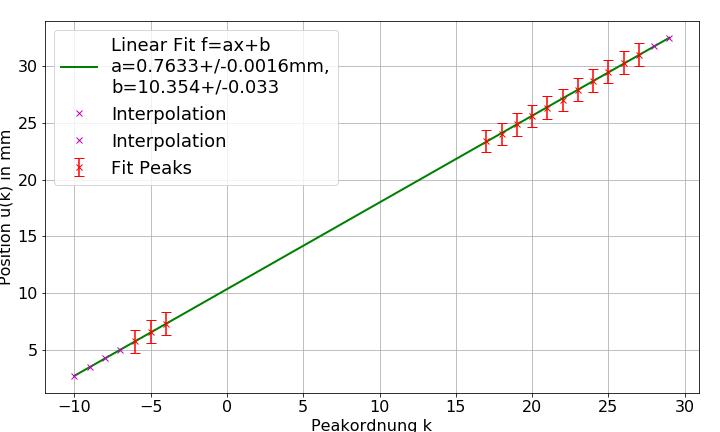
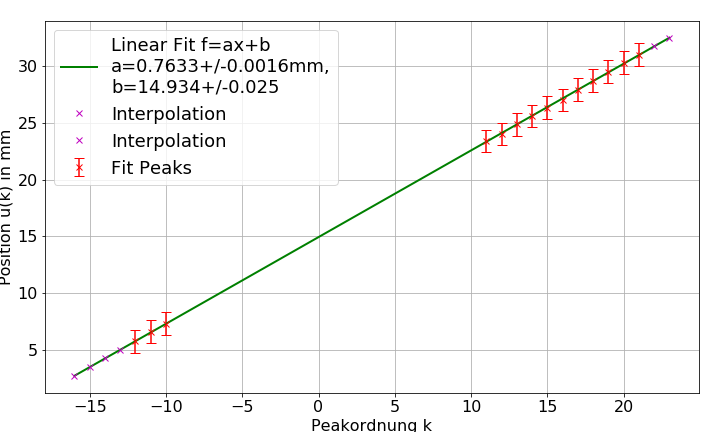
OFT Tabelle

diff --git a/OFT/scripts/gen.py b/OFT/scripts/gen.py
@@ -203,13 +203,13 @@ for name in names:
         xs = [4.5,10,15,20,26,32,38,44,50,56,62.5,68,74,79,85,91,97.5,102]
         before = 0
         after = 0
-        center = 6
+        center = 8
     if nnname=="2_gitter_g4":
         git.append(4)
         xs = [3,9,15,20,25.5,30.5,37,42,48,54.5,60,66,71,77.5,83,90,94.5,100]
         before = 0
         after = 0
-        center = 6
+        center = 9
     if nnname=="2_gitter_g5":
         git.append(5)
         xs = [2.5,9,16,23,30.5,37.5,45,52,60,67.5,75,82.5,90,98,105]
@@ -277,7 +277,7 @@ out_si_tab("OFT/res/tb_2_beug", np.transpose([git,resa,d*l/(uresa/1000)*1000]))
 
 # %% fit pyplot
 names = glob.glob("OFT/data/3/*.txt")
-resa = []
+resa2 = []
 git = []
 for name in names:
     data = np.loadtxt(name, skiprows = 4, usecols=(0,1), delimiter = ";")
@@ -298,31 +298,31 @@ for name in names:
         xs = [6.36,6.8,7.35,7.99,8.3,8.7,9.25,9.67,10.24,10.77,11.25,12,-1,-1,-1,-1,-1,-1,-1,-1,-1,-1,-1,-1,18.7,19.3, 19.79,20.4]
         before = 2
         after = 4
-        center = 4
+        center = 18
     if nnname=="3_trafo_g2":
         git.append(2)
         #xs = [5.75,7,8.75,10.75,12.25]#,14.75,17,19,20,22,23.5,25]
         xs = [5.75,6.6,7.3,-1,-1,-1,-1,-1,-1,-1,-1,-1,-1,-1,-1,-1,-1,-1,-1,-1,-1,-1,-1,23.4,24,24.85,25.6,26.33,27,27.9,28.7,29.5,30.3,31.0]
         before = 4
         after = 2
-        center = 6
+        center = 12
     if nnname=="3_trafo_g3":
         git.append(3)
         xs = [9.5,10.5,11.5,12.5,13.75,14.75,16,17,-1,-1,-1,-1,-1,-1,-1,26,27,28.2,29.3]
         before = 3
         after = 3
-        center = 6
+        center = 11
     if nnname=="3_trafo_g4":
         git.append(4)
         xs = [7.75,8.8,10,10.80,12,13.25,-1,-1,-1,-1,-1,-1,-1,-1,-1,-1,-1,-1,27.25,28.45,29.35]
         before = 4
         after = 4
-        center = 6
+        center = 11
     if nnname=="3_trafo_g5":
         git.append(5)
         xs = [2.5,4,5.25,6.5,8,9.5,10.75,12.25,13.75,-1,-1,-1,-1,-1,-1,-1,-1,26.25,27.75,29,30.5,31.75,33.25]
         after =4
-        center = 7
+        center = 12
     for x in xs:
         if x!=-1:
             fig.gca().axvline(x=x,ymin=0,ymax=1, color='r')
@@ -343,7 +343,7 @@ for name in names:
     xfit = np.linspace(xd[0]-before,xd[-1]+after,4000)
     yfit = gerade(xfit, *unv(fit))
 
-    resa.append(fit[0])
+    resa2.append(fit[0])
     bx =[]
     by =[]
     for i in range(before):
@@ -399,7 +399,7 @@ for name in names:
     plt.show()
 
 l = 632.8e-9
-d = 0.5
-print(resa)
-uresa = unp.uarray(unv(resa),usd(resa))
-out_si_tab("OFT/res/tb_3_beug", np.transpose([git,resa,d*l/(uresa/1000)*1000]))
+d2 = 0.5
+print(resa2)
+uresa2 = unp.uarray(unv(resa2),usd(resa2))
+out_si_tab("OFT/res/tb_3_beug", np.transpose([git,resa,d2*l/(uresa2/1000)*1000,d*l/(uresa/1000)*1000]))

diff --git a/OFT/BA-C-04_OFT_17-06-2019.tex b/OFT/BA-C-04_OFT_17-06-2019.tex
@@ -501,7 +501,7 @@
 \begin{table}[H]
 		\centering
 		\begin{tabular}{ c | c | c }
-			 Gitternummer & Steigung $a$ in \si{mm} & Gitterkonstante $b$ in \si{mm} \\ \hline
+			 Gitter & Steigung $a$ in \si{mm} & Gitterkonstante $b$ in \si{mm} \\ \hline
 			 \input{res/tb_2_beug}
 		\end{tabular}
 		\caption{
@@ -516,7 +516,7 @@
 	Man sieht, dass einige Maxima in den Beugungsprofilen nicht zu erkennen sind.
 	Dies muss auf ein Untergehen der Peaks im Rauschen oder eine sonstige Untermodulation zurückgeführt werden. %TODO kp, was da für Untermodulation sein könnte. Ist so bissl unbestimmt.
 
-	\subsection{Fouriertransformation mit einer Linse}
+	\subsection{Fouriertransformation mit einer Linse} \label{ss_3_beug}
 
 	\subsubsection*{Methode}
 
@@ -542,6 +542,8 @@
 	 \label{eq_3_beug_verschieb}
 	 u(k) = \frac{k\lambda f}{b} + \text{Verschiebung}
  \end{equation}
+  Um die Randmaxima gut auflösen zu können wurden eine hohe Beleuchtungszeit gewählt.
+	Als Nachteil hiervon folgt, dass man die Menge der Maxima nahe 0. Ordnung basierend auf den Abständen der äußeren approximieren muss.
 \begin{figure}[H]
         \centering
         \begin{subfigure}[b]{0.475\textwidth}
@@ -638,12 +640,13 @@
 
 \begin{table}[H]
 		\centering
-		\begin{tabular}{ c | c | c }
-			 Gitternummer & Steigung $a$ in \si{mm} & Gitterkonstante $b$ in \si{mm} \\ \hline
+		\begin{tabular}{ c | c | c | c }
+			 Gitter & Steigung $a$ in \si{mm} & $b$ in \si{mm} & $b$ in \si{mm} (ohne Linse)\\ \hline
 			 \input{res/tb_3_beug}
 		\end{tabular}
 		\caption{
 		Aus der Steigung $a$ mit \cref{eq_3_beug_verschieb} berechnete Gitterkonstanten $b$.
+		Außerdem sind zum Vergleich die in \cref{ss_2_beug} berechneten Gitterkonstanten $b$ ohne Linse angegeben.
 		}
 		\label{tb_3_beug}
 \end{table}
